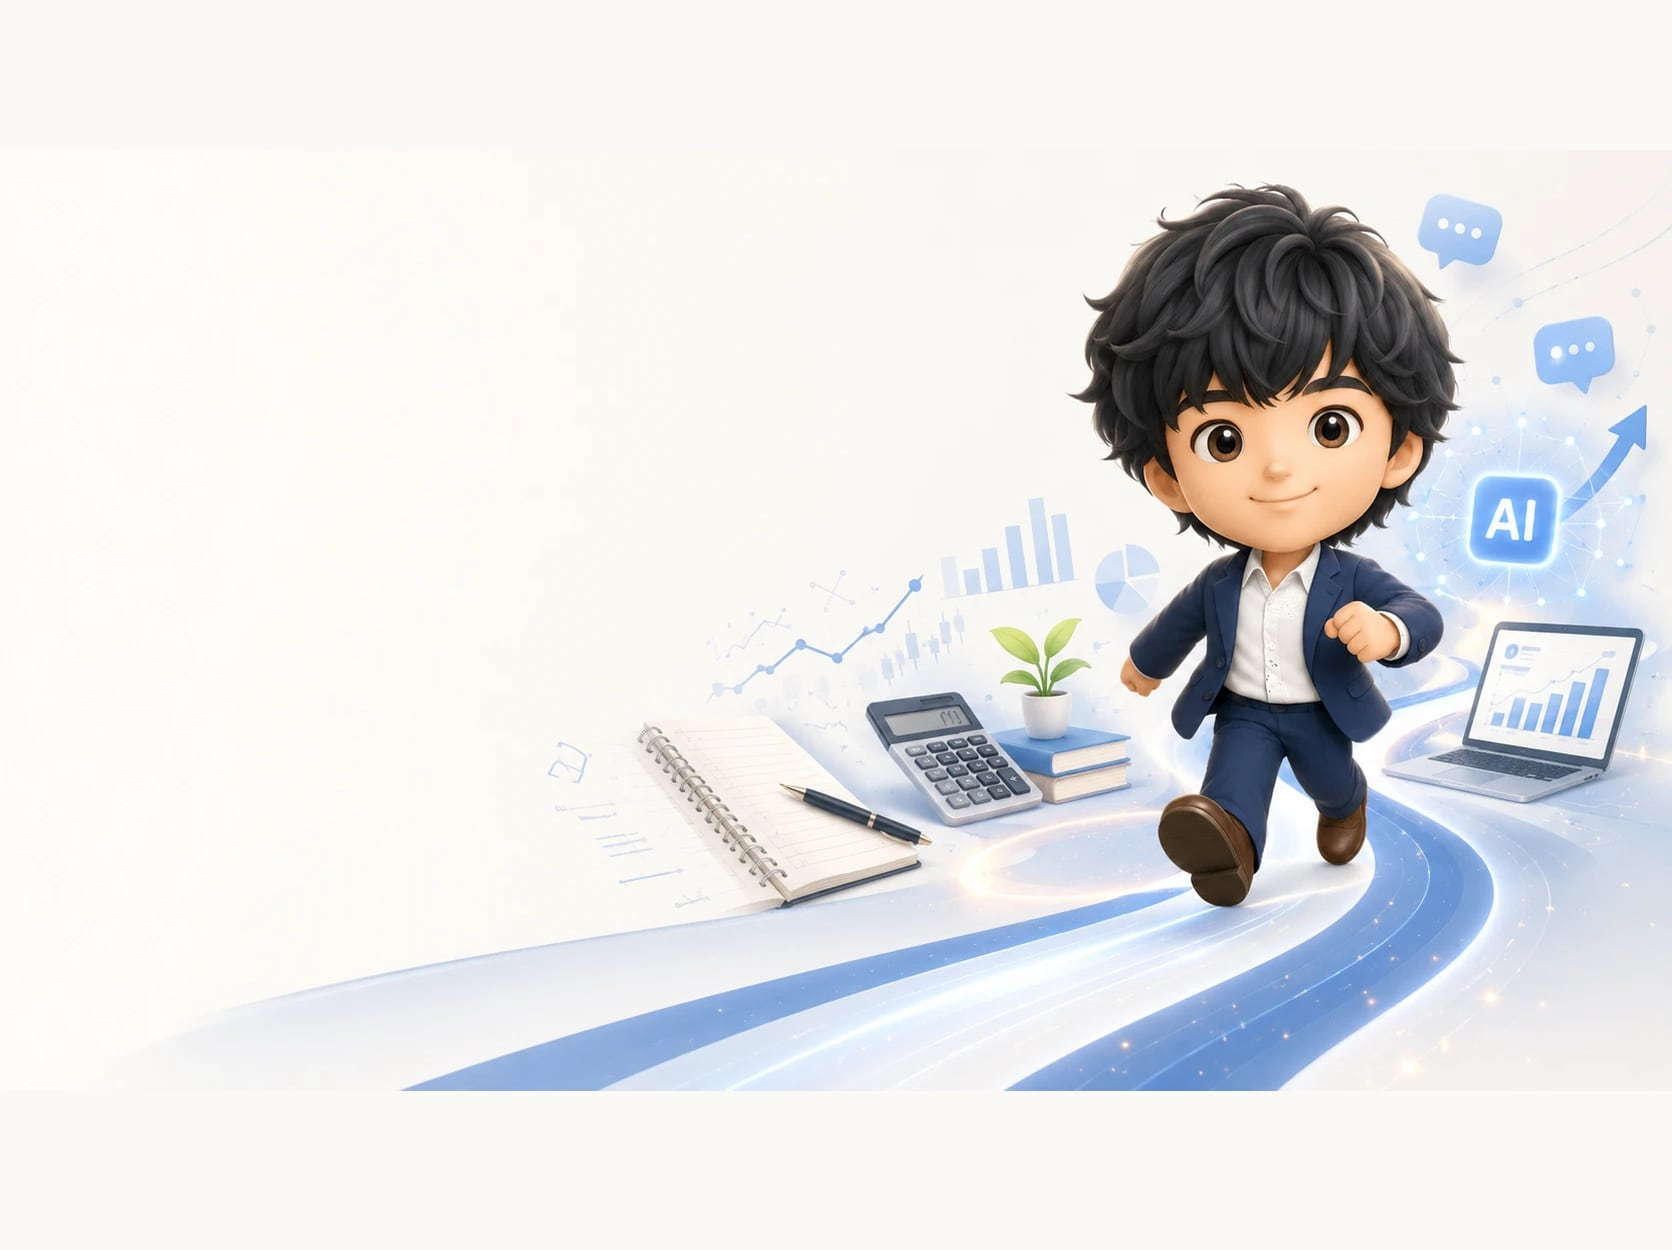
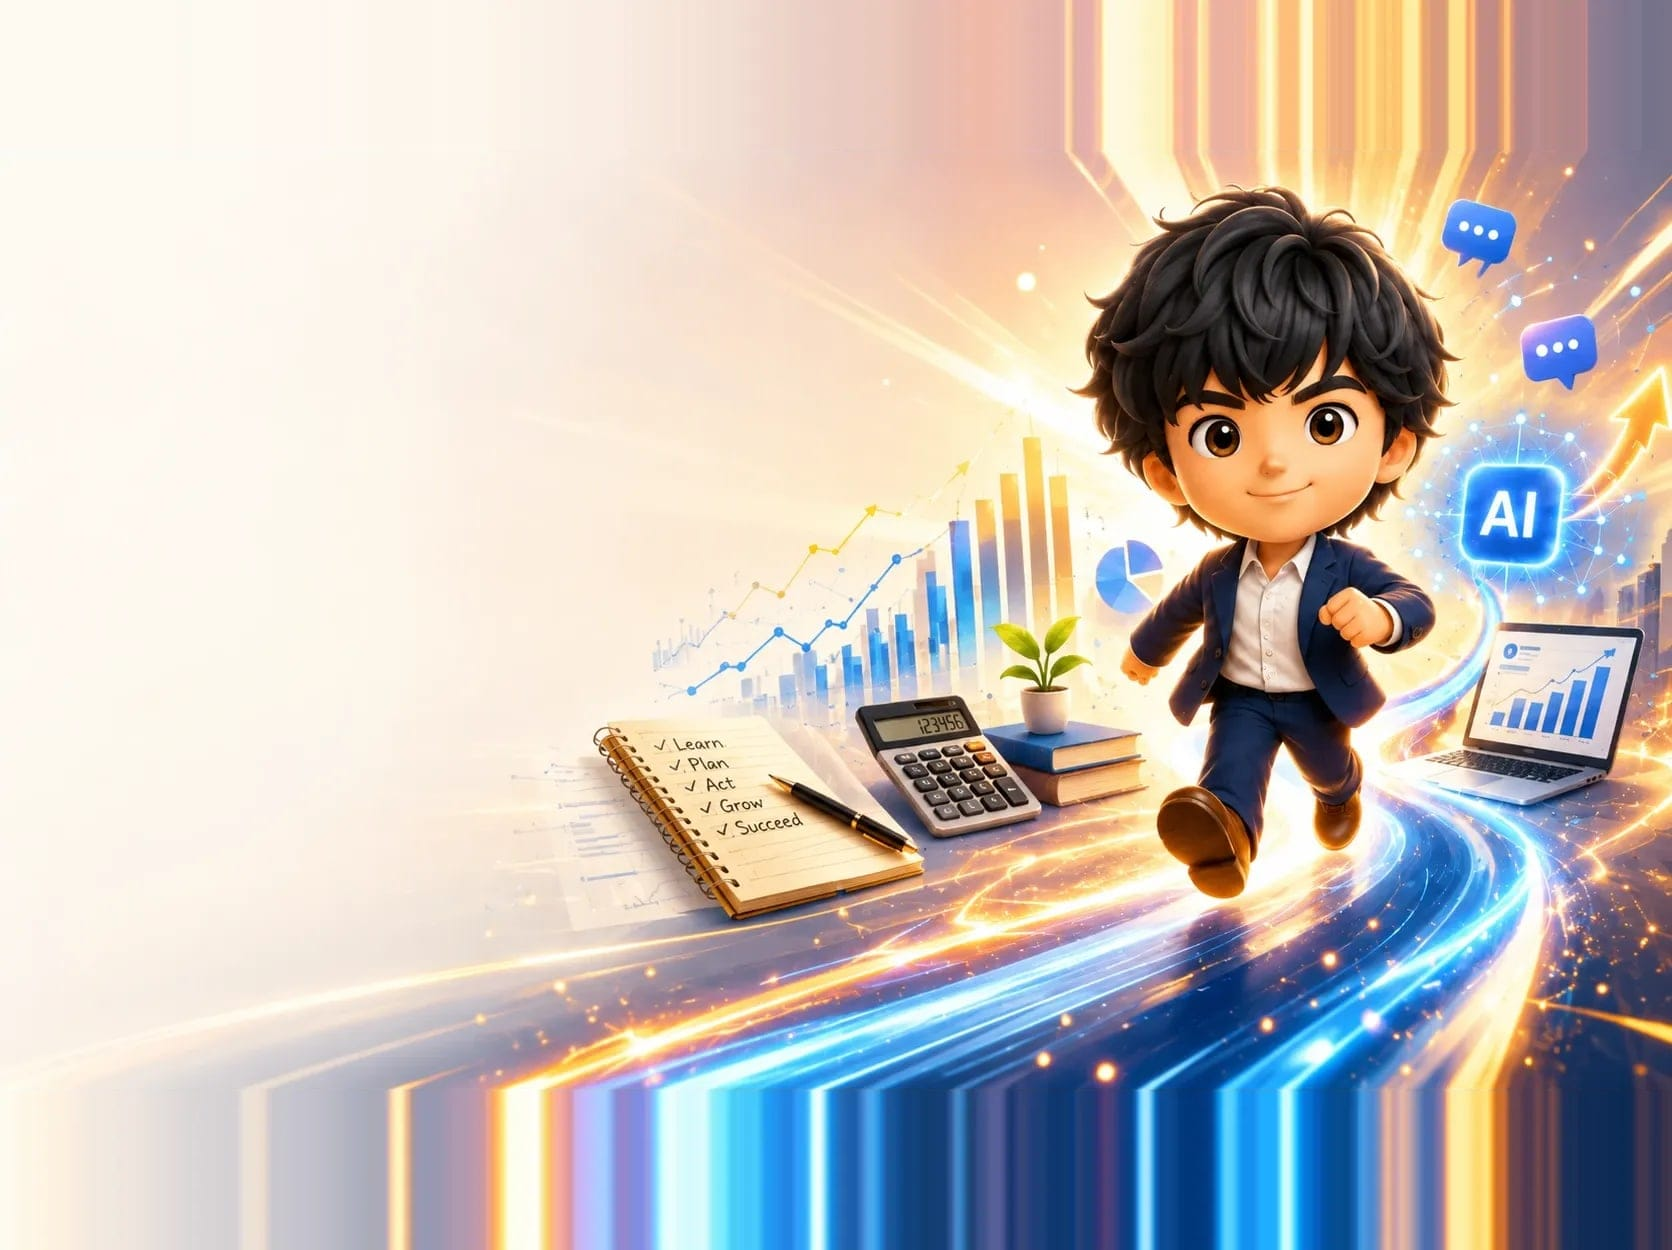
style(lp): 親LPを全体的に熱くする（新ヒーロー画像＋暖色の底上げ）
本人指示「全体的に熱いイメージにして」＋差し替え用の画像の提供。

- ヒーロー画像を、オレンジ・ゴールドの光が入った版へ差し替え。
  🔴 上下の余白は単色で埋めず、上端／下端の1行を引き伸ばした帯を合成した。
  単色だと継ぎ目が横一直線に見える（以前ヒーローで同じ失敗をしている）。
  境目の前後の平均色が一致することを実測して確認（200,192,187）。
  1672x941 → 1672x1250（比率1.34）。cover の拡大率を0.94に抑える目的は前回と同じ。
  quality80 で 171KB。
- 熱さの底上げ＝ヒーローの光／2つの宛先／4つの約束／受かって終わりにしない／
  診断の入口／締めのCTA の暖色を1段濃くした。締めは紺地に2つ目の暖色も足している。
- 白のままだった body・コンセプト・FAQ を #FDF8F3 へ。ベタのオレンジにすると
  読み疲れるので、白との差は最小限にとどめた。

検証＝1440/1280/1024/768/390px で横はみ出し0・JSエラー0。
コントラストを実測（地が明るくなったぶん本文は改善方向。残るのはクリーム地のオレンジ
小見出しで、今回以前から全ページ共通の既存配色）。PC/モバイル/俯瞰をPNGで目視、タグ均衡一致。

diff --git a/index.html b/index.html
@@ -2019,7 +2019,7 @@
         linear-gradient(90deg, rgba(15,44,68,0.05) 1px, transparent 1px);
     }
     /* 見出しの裏の光は、熱さを出すためオレンジにする */
-    .hub-hero::after { background: radial-gradient(circle, rgba(255,107,53,0.16) 0%, rgba(255,107,53,0) 66%); }
+    .hub-hero::after { background: radial-gradient(circle, rgba(255,107,53,0.26) 0%, rgba(255,107,53,0) 68%); }
     .hub-hero-motif span { color: rgba(15,44,68,0.08); }
     /* 絵に「文字を置くための空き」が作ってあるので1カラムで使う */
     .hub-hero-grid { display: block; min-height: 60vh; }
@@ -3859,30 +3859,37 @@
     .hub-hero-bridge strong { color: var(--navy); }
     .hub-hero-copy { text-shadow: none; }
 
+    /* --- ⑨ 白のままだった節も、ごく薄い暖色へ寄せる（2026-08-11「全体的に熱いイメージに」）
+       ベタのオレンジにすると読み疲れるので、白との差は最小限にとどめる --- */
+    body { background: #FDF8F3; }
+    .concept { background: #FDF8F3; }
+    .faq { background: #FDF8F3; }
+
     /* --- ⑧ 熱さを足す（2026-08-11・本人指示「熱いイメージにしたい」）---
        明るい地のままだと淡泊なので、節ごとに朝焼け側の暖色をうっすら敷く。
        ベタで塗らずグラデのにじみにするのは、文字の読みやすさを落とさないため。 */
     .why-now, .for-work {
       background:
-        radial-gradient(900px 520px at 86% 2%, rgba(255,107,53,0.11) 0%, rgba(255,107,53,0) 62%),
-        radial-gradient(720px 460px at 4% 92%, rgba(255,183,120,0.18) 0%, rgba(255,183,120,0) 66%),
-        linear-gradient(200deg, var(--white) 0%, var(--cream) 52%, #FBEFE3 100%);
+        radial-gradient(900px 520px at 86% 2%, rgba(255,107,53,0.20) 0%, rgba(255,107,53,0) 64%),
+        radial-gradient(760px 480px at 4% 92%, rgba(255,168,92,0.28) 0%, rgba(255,168,92,0) 68%),
+        linear-gradient(200deg, #FFFCF7 0%, #FBF1E6 52%, #F7E4D2 100%);
     }
     .method {
       background:
-        radial-gradient(780px 440px at 92% 6%, rgba(255,107,53,0.10) 0%, rgba(255,107,53,0) 62%),
-        var(--cream);
+        radial-gradient(820px 480px at 92% 6%, rgba(255,107,53,0.18) 0%, rgba(255,107,53,0) 64%),
+        linear-gradient(180deg, #FDF7F0 0%, #F9EBDD 100%);
     }
     .closing-word {
       background:
-        radial-gradient(720px 400px at 50% 0%, rgba(255,107,53,0.13) 0%, rgba(255,107,53,0) 66%),
-        var(--cream);
+        radial-gradient(760px 440px at 50% 0%, rgba(255,107,53,0.22) 0%, rgba(255,107,53,0) 68%),
+        linear-gradient(180deg, #FDF7F0 0%, #F9EBDD 100%);
     }
-    #shindan { background: linear-gradient(180deg, var(--cream) 0%, #FBEFE3 100%); }
+    #shindan { background: linear-gradient(180deg, #FDF7F0 0%, #F7E4D2 100%); }
     /* 締めの紺は、オレンジの熱をもう一段強く回す */
     .final-cta {
       background:
-        radial-gradient(760px 420px at 18% 12%, rgba(255,107,53,0.22) 0%, rgba(255,107,53,0) 62%),
+        radial-gradient(820px 460px at 18% 10%, rgba(255,107,53,0.34) 0%, rgba(255,107,53,0) 64%),
+        radial-gradient(600px 380px at 88% 88%, rgba(255,168,92,0.18) 0%, rgba(255,168,92,0) 66%),
         var(--navy-deep);
     }
 
